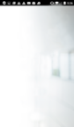
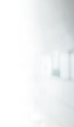
has been added background to login pages

Changed region(s): [[0.0, 0.0, 1.0, 0.0709]]

diff --git a/BeginMobile/BeginMobile/BeginMobile/Accounts/ForgotPassword.cs b/BeginMobile/BeginMobile/BeginMobile/Accounts/ForgotPassword.cs
@@ -38,11 +38,18 @@ namespace BeginMobile.Accounts
                                                Style = BeginApplication.Styles.TextBodyStyle
                                            };
 
-            _entryEmail = new Entry { Placeholder = AppResources.ForgotPassPlaceHolderEmail };
+            _entryEmail = new Entry
+            {
+                Placeholder = AppResources.ForgotPassPlaceHolderEmail,
+                HorizontalOptions = LayoutOptions.FillAndExpand,
+                VerticalOptions = LayoutOptions.Center,
+            };
 
             var buttonReset = new Button {
                 Text = "Forgot Password",//AppResources.ButtonSend, 
                                                 Style = BeginApplication.Styles.DefaultButton,
+                HorizontalOptions = LayoutOptions.FillAndExpand,
+                VerticalOptions = LayoutOptions.Center,
                 FontSize = 16
                                             };
 
@@ -99,18 +106,44 @@ namespace BeginMobile.Accounts
 	                                     };
 
             var stackLayoutLoading = CreateStackLayoutWithLoadingIndicator();
-             
-			Content = new StackLayout {
-                Spacing = 10,
+
+            var componentsLayout = new Grid
+            {
+                VerticalOptions = LayoutOptions.CenterAndExpand,
+                HorizontalOptions = LayoutOptions.CenterAndExpand,
                 Padding = BeginApplication.Styles.InitialPagesThickness,
-                VerticalOptions = LayoutOptions.Center,
-                Children = { 
-                    stackLayoutLoading,
-                    //mainTitle,
-                    _entryEmail,
-                    buttonReset
-                    }                   			
-			};
+                RowDefinitions = new RowDefinitionCollection
+                                                        {
+                                                            new RowDefinition {Height = GridLength.Auto},
+                                                            new RowDefinition {Height = GridLength.Auto},
+                                                            new RowDefinition {Height = GridLength.Auto},
+                                                            
+                                                        }
+            };
+            componentsLayout.Children.Add(stackLayoutLoading, 0, 0);
+            componentsLayout.Children.Add(_entryEmail, 0, 1);
+            componentsLayout.Children.Add(buttonReset, 0, 2);
+            var backgroundImage = new Image
+            {
+                Source = ImageSource.FromFile(BeginApplication.Styles.DefaultLoginBackgroundImage),
+                Aspect = Aspect.Fill,
+                HorizontalOptions = LayoutOptions.FillAndExpand,
+                VerticalOptions = LayoutOptions.FillAndExpand,
+            };
+            var relativeLayout = new RelativeLayout();
+            relativeLayout.Children.Add(backgroundImage,
+               xConstraint: Constraint.Constant(0),
+               yConstraint: Constraint.Constant(0),
+               widthConstraint: Constraint.RelativeToParent((parent) => { return parent.Width; }),
+               heightConstraint: Constraint.RelativeToParent((parent) => { return parent.Height; }));
+
+            relativeLayout.Children.Add(componentsLayout,
+              xConstraint: Constraint.Constant(0),
+              yConstraint: Constraint.Constant(0),
+              widthConstraint: Constraint.RelativeToParent((parent) => { return parent.Width; }),
+              heightConstraint: Constraint.RelativeToParent((parent) => { return parent.Height; }));
+
+	        Content = relativeLayout;
 		}
 	}
 }

diff --git a/BeginMobile/BeginMobile/BeginMobile/Accounts/LoginMenu.cs b/BeginMobile/BeginMobile/BeginMobile/Accounts/LoginMenu.cs
@@ -22,6 +22,14 @@ namespace BeginMobile.Accounts
 
         public LoginMenu(ILoginManager iloginManager)
         {
+            //BackgroundImage = "login_background.png";
+            var backgroundImage = new Image
+            {
+                Source = ImageSource.FromFile(BeginApplication.Styles.DefaultLoginBackgroundImage),
+                Aspect = Aspect.Fill,
+                HorizontalOptions = LayoutOptions.FillAndExpand,
+                VerticalOptions = LayoutOptions.FillAndExpand,
+            };
             _contentPageLogin = new Login(iloginManager);
             _contentPageRegister = new Register(iloginManager);
             _contentPageForgotPassword = new ForgotPassword();
@@ -95,9 +103,9 @@ namespace BeginMobile.Accounts
 
         var mainGrid = new Grid
             {
+                Padding = BeginApplication.Styles.InitialPagesThickness,
                 HorizontalOptions = LayoutOptions.FillAndExpand,
                 VerticalOptions = LayoutOptions.Start,
-                Padding = BeginApplication.Styles.InitialPagesThickness,
                 RowDefinitions = new RowDefinitionCollection
                                  {
                                      new RowDefinition{ Height = new GridLength(140,GridUnitType.Absolute)},
@@ -108,14 +116,28 @@ namespace BeginMobile.Accounts
                                      new RowDefinition{ Height = GridLength.Auto},
                                  }                                 
             };
+
             mainGrid.Children.Add(logo,0,0);
             mainGrid.Children.Add(buttonLogin,0,2);
             mainGrid.Children.Add(buttonForgotPassword,0,4);
             mainGrid.Children.Add(buttonRegister,0,5);
-                            
-            _mainScrollView.Content = mainGrid;
+
+            var relativeLayout = new RelativeLayout ();            
+            relativeLayout.Children.Add(backgroundImage,
+               xConstraint: Constraint.Constant(0),
+               yConstraint: Constraint.Constant(0),
+               widthConstraint: Constraint.RelativeToParent((parent) => { return parent.Width; }),
+               heightConstraint: Constraint.RelativeToParent((parent) => { return parent.Height; }));
+
+            relativeLayout.Children.Add(mainGrid,
+              xConstraint: Constraint.Constant(0),
+              yConstraint: Constraint.Constant(0),
+              widthConstraint: Constraint.RelativeToParent((parent) => { return parent.Width; }),
+              heightConstraint: Constraint.RelativeToParent((parent) => { return parent.Height; }));
+  
+            _mainScrollView.Content = relativeLayout;
             Content = _mainScrollView;
-            SizeChanged += (sender, e) => SetOrientation(this);
+            //SizeChanged += (sender, e) => SetOrientation(this);
 		}
         public void SetOrientation(Page page)
         {

diff --git a/BeginMobile/BeginMobile/BeginMobile/UploadPages/PictureUploader.cs b/BeginMobile/BeginMobile/BeginMobile/UploadPages/PictureUploader.cs
@@ -192,7 +192,7 @@ namespace BeginMobile.UploadPages
             var gridMain = new Grid()
             {
                 Padding = new Thickness(0 , 0, 0 , 20),
-                BackgroundColor = BeginApplication.Styles.PageContentBackgroundColor,
+                //BackgroundColor = BeginApplication.Styles.PageContentBackgroundColor,
                 HorizontalOptions = LayoutOptions.FillAndExpand,
                 VerticalOptions = LayoutOptions.FillAndExpand,
                 RowSpacing = 6,
@@ -258,12 +258,33 @@ namespace BeginMobile.UploadPages
 
 
 
-            Content = new StackLayout()
+            var _main = new StackLayout()
             {
                 BackgroundColor = BeginApplication.Styles.PageContentBackgroundColor,
                 Padding = new Thickness(32, Device.OnPlatform(20, 20, 20), 32, 10),
                 Children = {gridMain,stackCircleButtons}
             };
+
+            var backgroundImage = new Image
+            {
+                Source = ImageSource.FromFile(BeginApplication.Styles.DefaultLoginBackgroundImage),
+                Aspect = Aspect.Fill,
+                HorizontalOptions = LayoutOptions.FillAndExpand,
+                VerticalOptions = LayoutOptions.FillAndExpand,
+            };
+            var relativeLayout = new RelativeLayout();
+            relativeLayout.Children.Add(backgroundImage,
+               xConstraint: Constraint.Constant(0),
+               yConstraint: Constraint.Constant(0),
+               widthConstraint: Constraint.RelativeToParent((parent) => { return parent.Width; }),
+               heightConstraint: Constraint.RelativeToParent((parent) => { return parent.Height; }));
+
+            relativeLayout.Children.Add(_main,
+              xConstraint: Constraint.Constant(0),
+              yConstraint: Constraint.Constant(0),
+              widthConstraint: Constraint.RelativeToParent((parent) => { return parent.Width; }),
+              heightConstraint: Constraint.RelativeToParent((parent) => { return parent.Height; }));
+            Content = relativeLayout;
         }
 
         private async Task<MediaFile> TakePicture()

diff --git a/BeginMobile/BeginMobile/BeginMobile/UploadPages/OfferYourServicesPage.cs b/BeginMobile/BeginMobile/BeginMobile/UploadPages/OfferYourServicesPage.cs
@@ -190,7 +190,7 @@ namespace BeginMobile.UploadPages
             _mainStackLayout = new StackLayout
                                {
                                    HorizontalOptions = LayoutOptions.Center,
-                                   BackgroundColor = BeginApplication.Styles.PageContentBackgroundColor,
+                                   //BackgroundColor = BeginApplication.Styles.PageContentBackgroundColor,
                                    Children =
                                    {
                                        gridMain,stackCircleButtons
@@ -205,8 +205,26 @@ namespace BeginMobile.UploadPages
             //save the harcode profession for recovery in the Profile ME this is temporaly
             BeginApplication.SelectedUserProfession = _labelServicesSubTitle.Text;
 
+            var backgroundImage = new Image
+            {
+                Source = ImageSource.FromFile(BeginApplication.Styles.DefaultLoginBackgroundImage),
+                Aspect = Aspect.Fill,
+                HorizontalOptions = LayoutOptions.FillAndExpand,
+                VerticalOptions = LayoutOptions.FillAndExpand,
+            };
+            var relativeLayout = new RelativeLayout();
+            relativeLayout.Children.Add(backgroundImage,
+               xConstraint: Constraint.Constant(0),
+               yConstraint: Constraint.Constant(0),
+               widthConstraint: Constraint.RelativeToParent((parent) => { return parent.Width; }),
+               heightConstraint: Constraint.RelativeToParent((parent) => { return parent.Height; }));
 
-            Content = _mainStackLayout;
+            relativeLayout.Children.Add(_mainStackLayout,
+              xConstraint: Constraint.Constant(0),
+              yConstraint: Constraint.Constant(0),
+              widthConstraint: Constraint.RelativeToParent((parent) => { return parent.Width; }),
+              heightConstraint: Constraint.RelativeToParent((parent) => { return parent.Height; }));
+            Content = relativeLayout;
 
             //SizeChanged +=(sender,e)=> ChangePadding(this);
 

diff --git a/BeginMobile/BeginMobile/BeginMobile/Accounts/Login.cs b/BeginMobile/BeginMobile/BeginMobile/Accounts/Login.cs
@@ -22,6 +22,7 @@ namespace BeginMobile.Accounts
 
         public Login(ILoginManager iLoginManager)
         {
+            //BackgroundImage = "login_background.png";
             _contentPageForgotPassword = new ForgotPassword();
 
             Style = BeginApplication.Styles.InitialPageStyle;          
@@ -148,9 +149,28 @@ namespace BeginMobile.Accounts
             componentsLayout.Children.Add(buttonLogin, 0, 4);
             componentsLayout.Children.Add(buttonForgotPassword, 0, 5);
 
-            _mainScrollView.Content = componentsLayout;
+            var backgroundImage = new Image
+            {
+                Source = ImageSource.FromFile(BeginApplication.Styles.DefaultLoginBackgroundImage),
+                Aspect = Aspect.Fill,
+                HorizontalOptions = LayoutOptions.FillAndExpand,
+                VerticalOptions = LayoutOptions.FillAndExpand,
+            };
+            var relativeLayout = new RelativeLayout();
+            relativeLayout.Children.Add(backgroundImage,
+               xConstraint: Constraint.Constant(0),
+               yConstraint: Constraint.Constant(0),
+               widthConstraint: Constraint.RelativeToParent((parent) => { return parent.Width; }),
+               heightConstraint: Constraint.RelativeToParent((parent) => { return parent.Height; }));
+
+            relativeLayout.Children.Add(componentsLayout,
+              xConstraint: Constraint.Constant(0),
+              yConstraint: Constraint.Constant(0),
+              widthConstraint: Constraint.RelativeToParent((parent) => { return parent.Width; }),
+              heightConstraint: Constraint.RelativeToParent((parent) => { return parent.Height; }));
+            _mainScrollView.Content = relativeLayout;
             Content = _mainScrollView;
-            SizeChanged += (sender, e) => SetOrientation(this);
+           // SizeChanged += (sender, e) => SetOrientation(this);
         }
 
         private void LoginUserMock(ILoginManager iLoginManagerMock)

diff --git a/BeginMobile/BeginMobile/BeginMobile/Accounts/Register.cs b/BeginMobile/BeginMobile/BeginMobile/Accounts/Register.cs
@@ -111,7 +111,7 @@ namespace BeginMobile.Accounts
             var stackLayoutLoading = CreateStackLayoutWithLoadingIndicator();
 
 
-            Content = new ScrollView
+            var scroll = new ScrollView
                       {
                           Content = new StackLayout
                                     {
@@ -130,6 +130,30 @@ namespace BeginMobile.Accounts
                                         }
                                     }
                       };
+
+
+            var backgroundImage = new Image
+            {
+                Source = ImageSource.FromFile(BeginApplication.Styles.DefaultLoginBackgroundImage),
+                Aspect = Aspect.Fill,
+                HorizontalOptions = LayoutOptions.FillAndExpand,
+                VerticalOptions = LayoutOptions.FillAndExpand,
+            };
+            var relativeLayout = new RelativeLayout();
+            relativeLayout.Children.Add(backgroundImage,
+               xConstraint: Constraint.Constant(0),
+               yConstraint: Constraint.Constant(0),
+               widthConstraint: Constraint.RelativeToParent((parent) => { return parent.Width; }),
+               heightConstraint: Constraint.RelativeToParent((parent) => { return parent.Height; }));
+
+            relativeLayout.Children.Add(scroll,
+              xConstraint: Constraint.Constant(0),
+              yConstraint: Constraint.Constant(0),
+              widthConstraint: Constraint.RelativeToParent((parent) => { return parent.Width; }),
+              heightConstraint: Constraint.RelativeToParent((parent) => { return parent.Height; }));
+
+            Content = relativeLayout;
+
         }
 
         public async void RegisterClickEventHandler(object sender, EventArgs eventArgs)

diff --git a/BeginMobile/BeginMobile/BeginMobile/Pages/Profile/ProfileMe.cs b/BeginMobile/BeginMobile/BeginMobile/Pages/Profile/ProfileMe.cs
@@ -81,7 +81,7 @@ namespace BeginMobile.Pages.Profile
                             {
                                 XAlign = TextAlignment.Center,
                                 TextColor = Color.White,
-                                Text = user.NameSurname,
+                                Text = user.DisplayName,
                                 FontAttributes = FontAttributes.Bold,
                                 HorizontalOptions = LayoutOptions.Center,
                                 //Style = BeginApplication.Styles.TitleStyle,
@@ -213,7 +213,7 @@ namespace BeginMobile.Pages.Profile
 
             var stackLayoutDetails = new StackLayout
                                      {
-                                         BackgroundColor = BeginApplication.Styles.DefaultProfileMeBannerColor,
+                                         BackgroundColor = Color.Transparent,//BeginApplication.Styles.DefaultProfileMeBannerColor,
                                          Padding = BeginApplication.Styles.ProfileDetailsPadding,
                                          HeightRequest = 250,
                                          VerticalOptions = LayoutOptions.FillAndExpand,
@@ -224,7 +224,7 @@ namespace BeginMobile.Pages.Profile
                                          }
                                      };
             // _commonMainGrid.Children.Add(_newPublication.Container, 0, 0);
-            //_commonMainGrid.Children.Add(imageBanner, 0, 1);
+            _commonMainGrid.Children.Add(imageBanner, 0, 0);
             _commonMainGrid.Children.Add(stackLayoutDetails, 0, 0);
             //_commonMainGrid.Children.Add(boxBlacknew, 0, 1);
             _commonMainGrid.Children.Add(_commonGridMenuButtons, 0, 1);

diff --git a/BeginMobile/BeginMobile/BeginMobile/Utils/Styles.cs b/BeginMobile/BeginMobile/BeginMobile/Utils/Styles.cs
@@ -1475,10 +1475,13 @@ namespace BeginMobile.Utils
             }
         }
 
-
+        public string DefaultLoginBackgroundImage
+        {
+            get { return "login_background.png"; }
+        }
         public string DefaultProfileMeBannerImage
         {
-            get { return "Icon.png"; }
+            get { return "profile_background.png"; }
         }
 
         public string DefaultProfileUserIconName
@@ -1674,7 +1677,7 @@ namespace BeginMobile.Utils
 
         public string LogoIcon
         {
-            get { return "logo.png"; }
+            get { return "logoSplash.png"; }
         }
 
         public string PublicationsSendIcon
